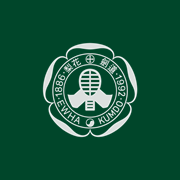
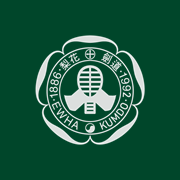
feat: 홈 화면 아이콘 엠블럼 확대, 앱 표시 이름을 EKUM으로 변경
아이콘 안 로고가 작아 보인다는 피드백에 맞춰 콘텐츠 비율을 키움
(192/512: 0.88→0.96, maskable: 0.65→0.75, apple-touch: 0.78→0.9,
안전 여백은 유지). 홈 화면 아이콘 아래 표시되는 이름은 안드로이드
manifest short_name과 iOS apple-mobile-web-app-title 둘 다
"EKUM"으로 통일.

Changed region(s): [[0.1944, 0.1944, 0.8056, 0.8056]]

diff --git a/app/layout.tsx b/app/layout.tsx
@@ -17,7 +17,7 @@ export const metadata: Metadata = {
   },
   appleWebApp: {
     capable: true,
-    title: "EWHA Kumdo",
+    title: "EKUM",
     statusBarStyle: "default",
   },
 };
